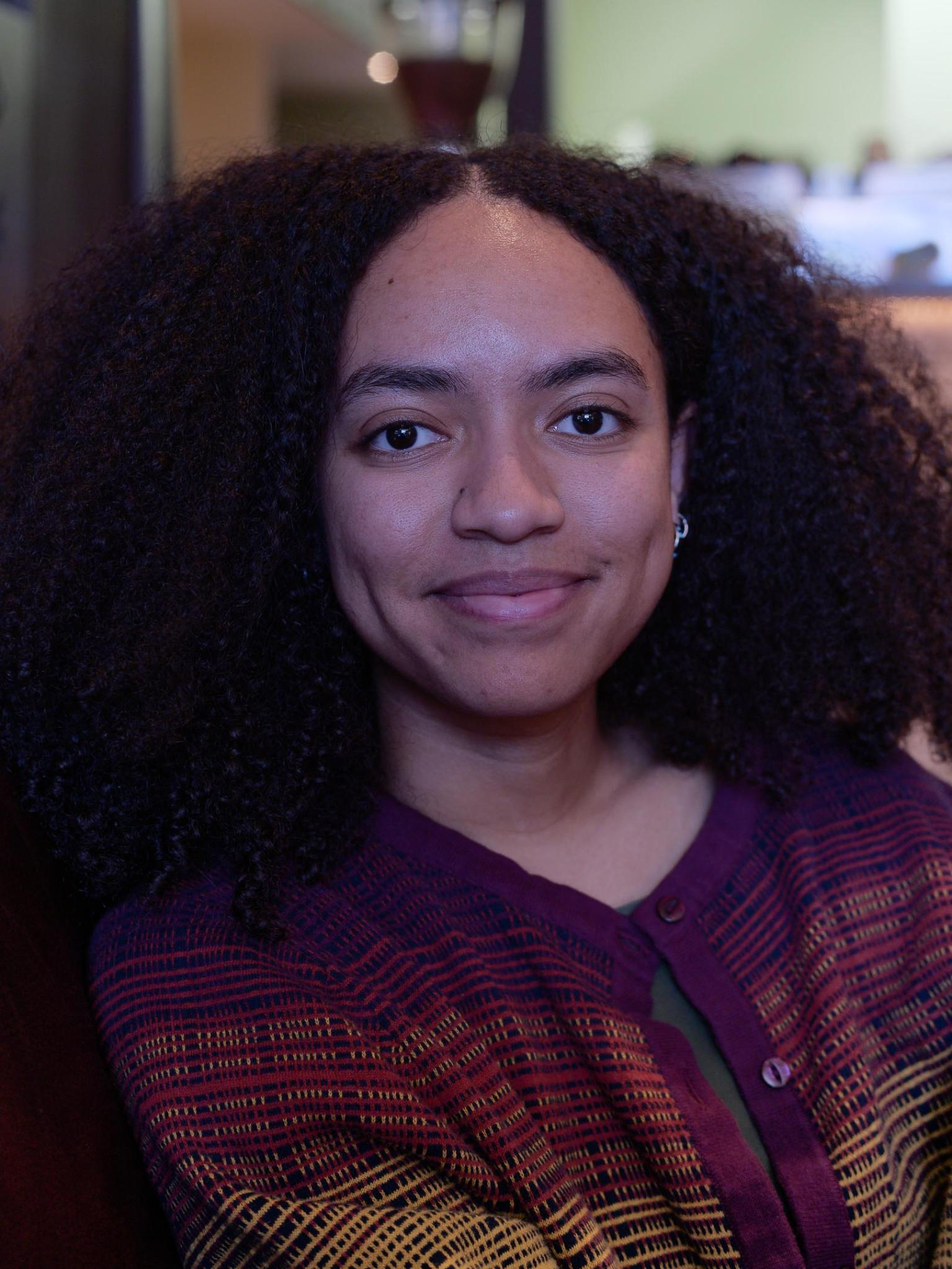
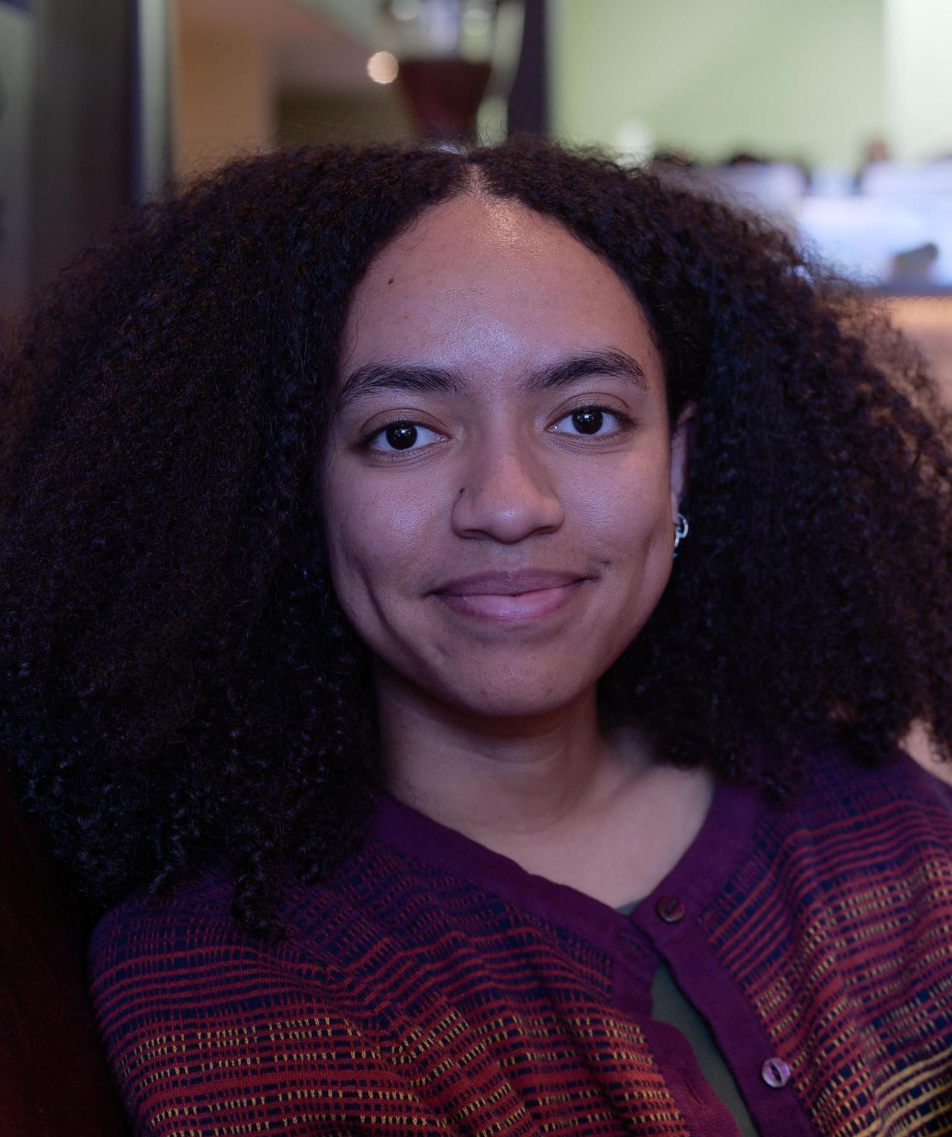
Profile update, theme update

diff --git a/_pages/analytics.html b/_pages/analytics.html
@@ -1,14 +1,14 @@
 ---
 layout: archive
-title: "Portfolio"
-permalink: /portfolio/
+title: "Modeling and Analytics Projects"
+permalink: /analytics/
 author_profile: true
 ---
 
 {% include base_path %}
 
 
-{% for post in site.portfolio %}
+{% for post in site.analytics %}
   {% include archive-single.html %}
 {% endfor %}
 
